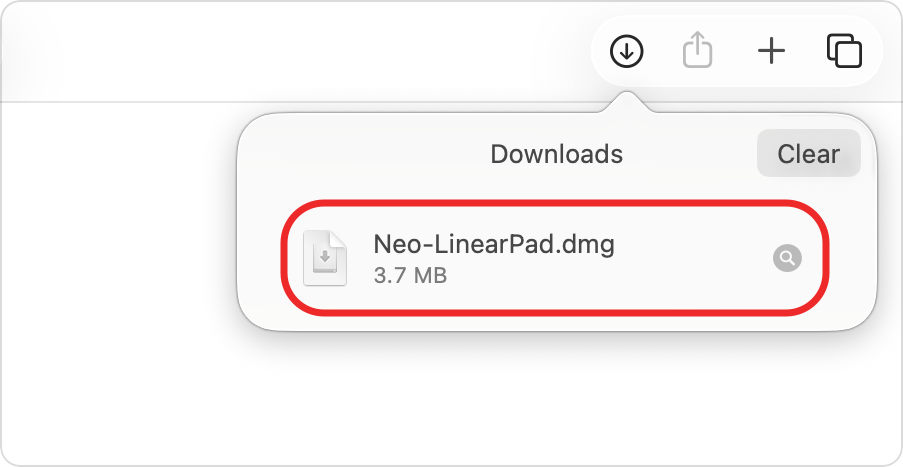
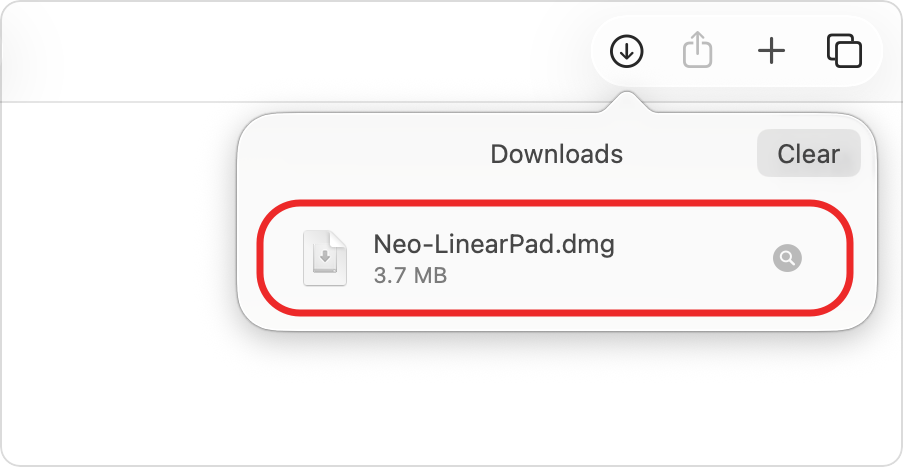
Guide images: even margins on the Enter License Key ring; wider ring on the downloads row

Changed region(s): [[0.8682, 0.4197, 0.9612, 0.6895], [0.2791, 0.4197, 0.3721, 0.6895]]

diff --git a/en/index.html b/en/index.html
@@ -49,7 +49,7 @@
               <img src="../assets/guide/en/install-1-choose.png?v=2" alt="Choosing “30-day free trial”" loading="lazy">
             </li>
             <li>Open the .dmg from your browser’s downloads.
-              <img src="../assets/guide/en/install-2-safari.png?v=11" alt="Downloads in Safari" loading="lazy">
+              <img src="../assets/guide/en/install-2-safari.png?v=12" alt="Downloads in Safari" loading="lazy">
             </li>
             <li>Drag <span class="notranslate" translate="no">Neo LinearPad</span> into the Applications folder.
               <img src="../assets/guide/install-3-drag.png?v=6" alt="Dragging the app into Applications" loading="lazy">
@@ -84,7 +84,7 @@
               <img src="../assets/guide/en/buy-4-done.png?v=11" alt="The app saying the license is active" loading="lazy">
             </li>
             <li>If that doesn’t work, right-click the menu bar icon, choose “Enter License Key…”, paste the key from your email there yourself, and click “Activate”.
-              <img src="../assets/guide/en/buy-5-menu.png?v=11" alt="“Enter License Key…” in the right-click menu" loading="lazy">
+              <img src="../assets/guide/en/buy-5-menu.png?v=12" alt="“Enter License Key…” in the right-click menu" loading="lazy">
             </li>
           </ol>
         </div>

diff --git a/ja/index.html b/ja/index.html
@@ -50,7 +50,7 @@
               <img src="../assets/guide/install-1-choose.png?v=3" alt="「30日間無料お試し」を選ぶ" loading="lazy">
             </li>
             <li>ブラウザのダウンロード一覧から .dmg を開きます。
-              <img src="../assets/guide/install-2-safari.png?v=4" alt="Safari のダウンロード一覧" loading="lazy">
+              <img src="../assets/guide/install-2-safari.png?v=5" alt="Safari のダウンロード一覧" loading="lazy">
             </li>
             <li><span class="notranslate" translate="no">Neo LinearPad</span> を「アプリケーション」フォルダへドラッグします。
               <img src="../assets/guide/install-3-drag.png?v=6" alt=".dmg を開き、アプリケーションへドラッグ" loading="lazy">

diff --git a/en/thanks.html b/en/thanks.html
@@ -44,7 +44,7 @@
           </div>
         </div>
         <p>Right-click the <span class="notranslate" translate="no">Neo LinearPad</span> icon in the menu bar, choose “Enter License Key…”, and paste the key.</p>
-        <img class="step-image" src="../assets/guide/en/buy-5-menu.png?v=11" alt="“Enter License Key…” in the right-click menu" loading="lazy">
+        <img class="step-image" src="../assets/guide/en/buy-5-menu.png?v=12" alt="“Enter License Key…” in the right-click menu" loading="lazy">
         <p class="step-aside step-note">* The same key is also in your email.</p>
       </li>
     </ol>
